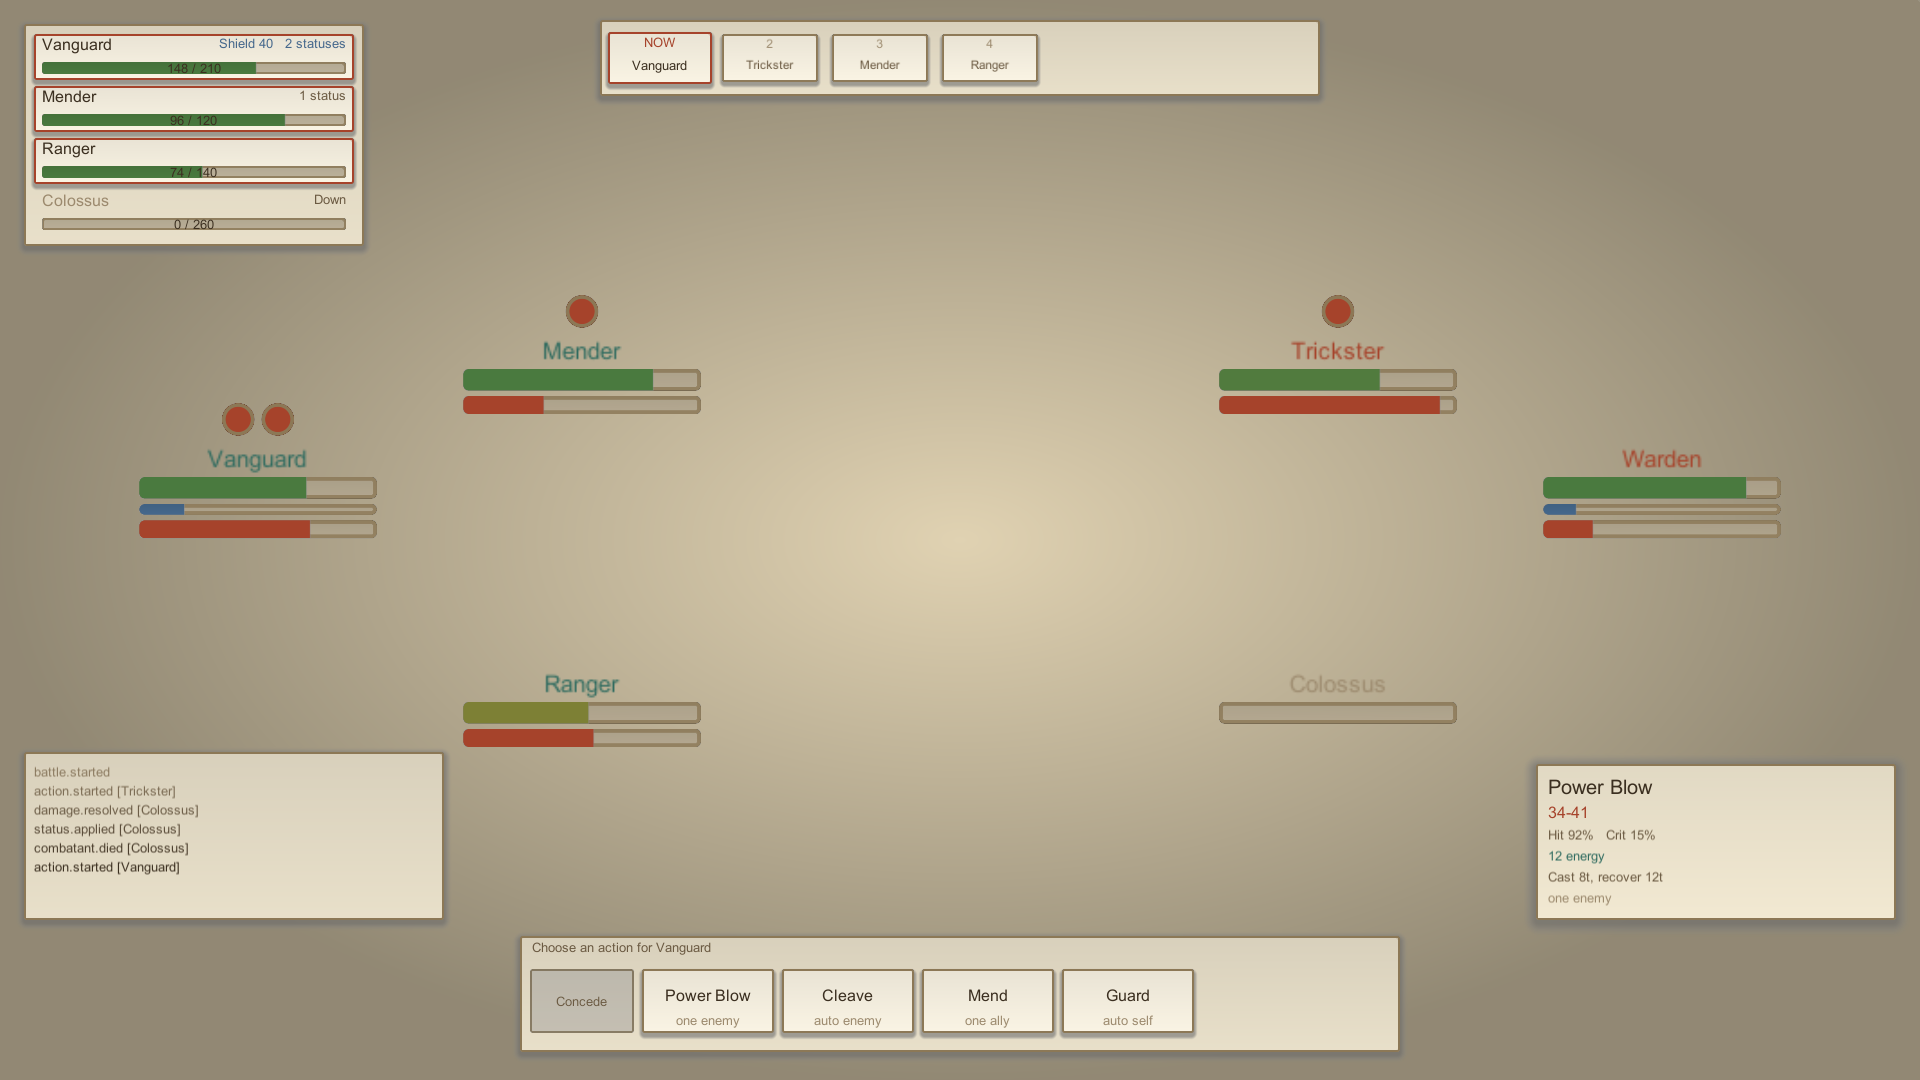
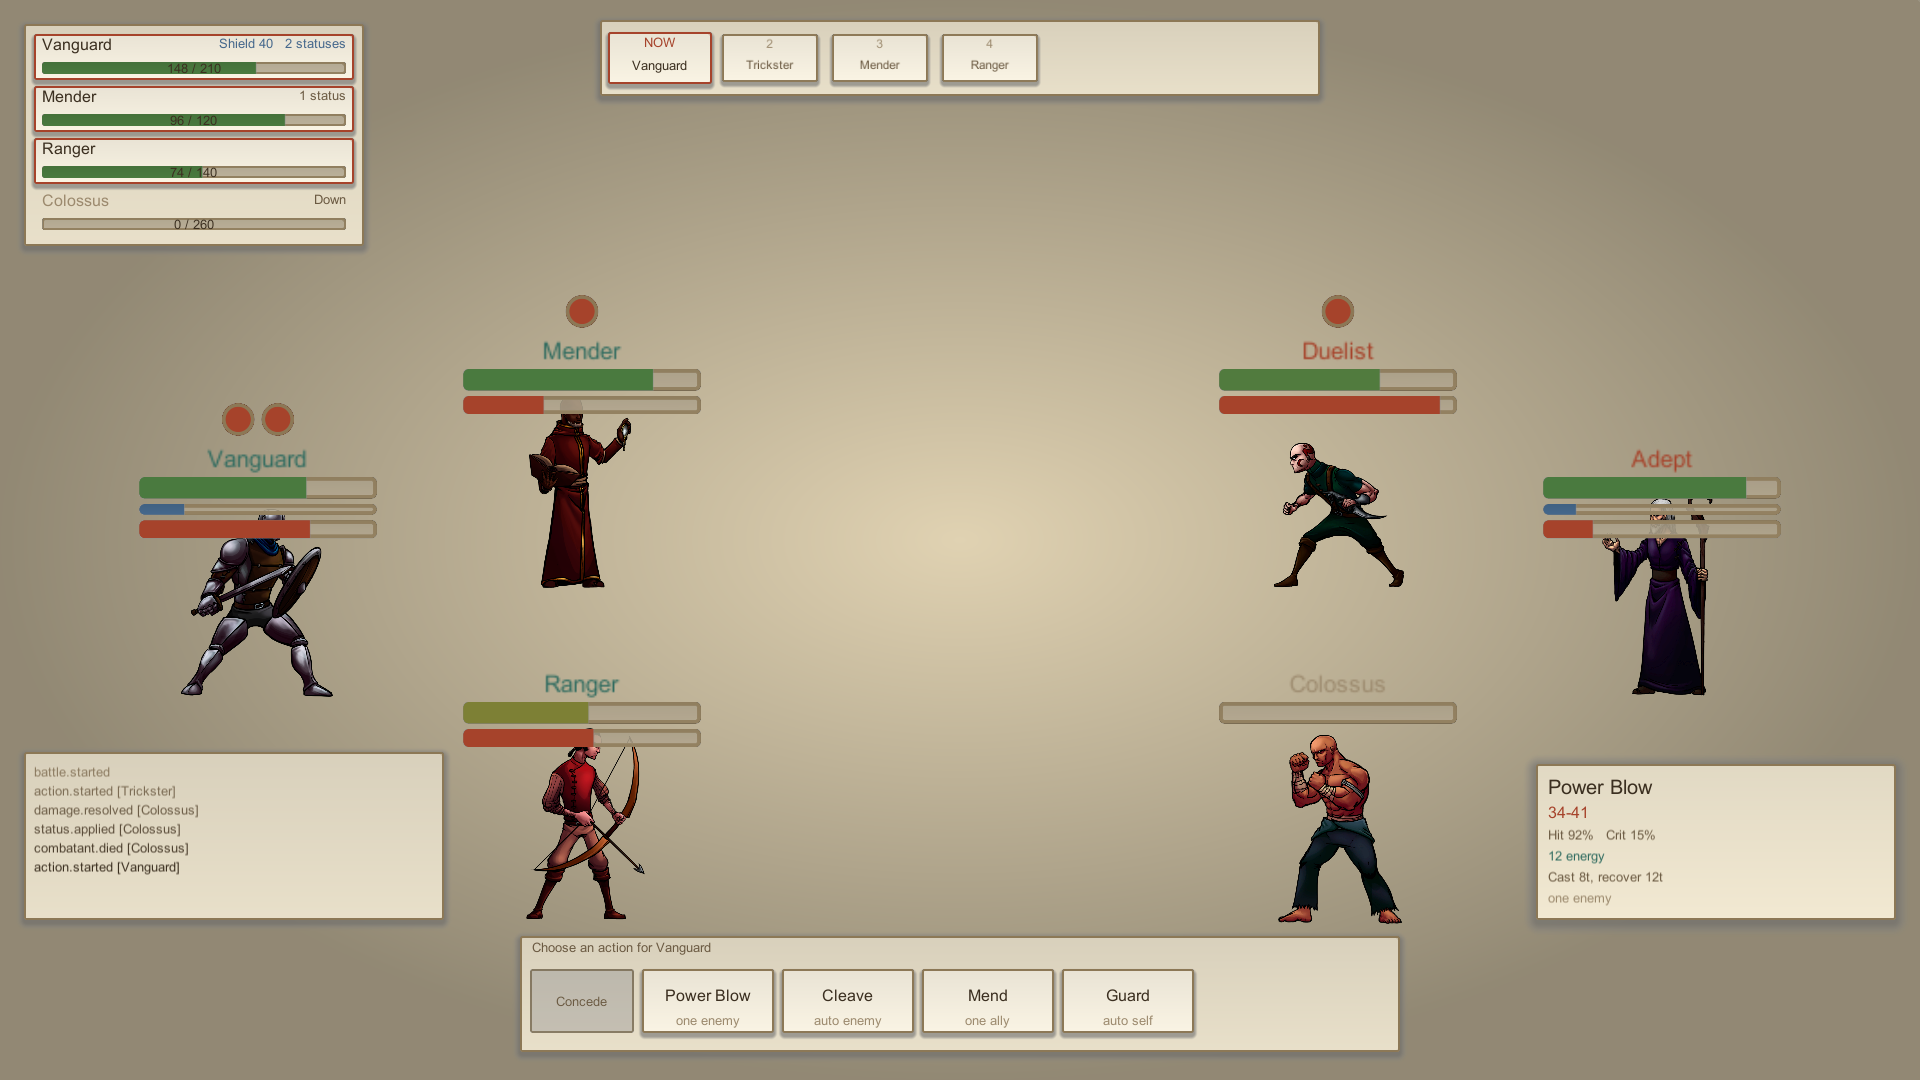
Re-shoot the screenshots with characters, and document the per-combatant key
The hero and skin gallery showed nameplates over empty ground because the package
had no character art wired. Six drawn characters now ship and the captures show
them, on both the dark and parchment skins.

Corrects two claims that are no longer true: the tutorial and the layout how-to
both told buyers the package ships no character art. It ships six, licensed for
use in their own commercial projects, and the two archetypes without a drawing
fall back to a generated role glyph.

Documents BattleStage2D.TokenPoolKeyFor and the optional IPoolPrototypeQuery,
replacing the warning that one prototype had to serve every combatant. The
anchor validation caught the new cross-reference before the reference had been
regenerated, which is the check earning its keep.

Built with --strict; 0 undocumented types across 319 published.

diff --git a/docs/reference/presentation-adapters-and-recipes.md b/docs/reference/presentation-adapters-and-recipes.md
@@ -1,9 +1,9 @@
 # Presentation adapters and recipes
 
-16 types in this area.
+17 types in this area.
 
 !!! abstract "On this page"
-    [BuiltInAnimationAdapter](#builtinanimationadapter) &middot; [BuiltInAudioAdapter](#builtinaudioadapter) &middot; [BuiltInPoolAdapter](#builtinpooladapter) &middot; [BuiltInVfxAdapter](#builtinvfxadapter) &middot; [FloatingNumberStyle](#floatingnumberstyle) &middot; [IAnimationAdapter](#ianimationadapter) &middot; [IAudioAdapter](#iaudioadapter) &middot; [IPoolAdapter](#ipooladapter) &middot; [IVfxAdapter](#ivfxadapter) &middot; [PresentationBeatSpec](#presentationbeatspec) &middot; [PresentationCue](#presentationcue) &middot; [PresentationLog](#presentationlog) &middot; [PresentationRecipeDefinition](#presentationrecipedefinition) &middot; [PresentationRecipeSet](#presentationrecipeset) &middot; [PresentationSelectorKind](#presentationselectorkind) &middot; [PresentationVfxAnchorKind](#presentationvfxanchorkind)
+    [BuiltInAnimationAdapter](#builtinanimationadapter) &middot; [BuiltInAudioAdapter](#builtinaudioadapter) &middot; [BuiltInPoolAdapter](#builtinpooladapter) &middot; [BuiltInVfxAdapter](#builtinvfxadapter) &middot; [FloatingNumberStyle](#floatingnumberstyle) &middot; [IAnimationAdapter](#ianimationadapter) &middot; [IAudioAdapter](#iaudioadapter) &middot; [IPoolAdapter](#ipooladapter) &middot; [IPoolPrototypeQuery](#ipoolprototypequery) &middot; [IVfxAdapter](#ivfxadapter) &middot; [PresentationBeatSpec](#presentationbeatspec) &middot; [PresentationCue](#presentationcue) &middot; [PresentationLog](#presentationlog) &middot; [PresentationRecipeDefinition](#presentationrecipedefinition) &middot; [PresentationRecipeSet](#presentationrecipeset) &middot; [PresentationSelectorKind](#presentationselectorkind) &middot; [PresentationVfxAnchorKind](#presentationvfxanchorkind)
 
 ## BuiltInAnimationAdapter
 
@@ -76,7 +76,7 @@ degrade to a single warning and a no-op.
 ## BuiltInPoolAdapter
 
 ```csharp
-public sealed class BuiltInPoolAdapter : IPoolAdapter
+public sealed class BuiltInPoolAdapter : IPoolAdapter, IPoolPrototypeQuery
 ```
 
 `TempoForge.Presentation` &middot; <small>TempoForge/Runtime/Presentation/Adapters/BuiltInPresentationAdapters.cs</small>
@@ -104,6 +104,10 @@ to a single warning and a null result rather than allocating forever.
 `public int ActiveCount(string key)`
 
 :   Instances handed out for a key and not yet released; zero for a null key or one that has never been acquired.
+
+`public bool HasPrototype(string key)`
+
+:   True when `RegisterPrototype` has bound a prototype to `key` and that prototype is still alive. A destroyed prototype reports false rather than true, so a scene teardown that took the source object with it degrades to the shared fallback instead of cloning a dead reference.
 
 `public int IdleCount(string key)`
 
@@ -233,6 +237,29 @@ cap so the caller degrades visibly rather than allocating without bound.
 The presenter and the stage release everything they acquired on teardown,
 so an implementation must survive repeated acquire/release cycles without
 leaking instances and without destroying them.
+
+---
+
+## IPoolPrototypeQuery
+
+```csharp
+public interface IPoolPrototypeQuery
+```
+
+`TempoForge.Presentation` &middot; <small>TempoForge/Runtime/Presentation/Adapters/PresentationAdapters.cs</small>
+
+An optional capability a pool may add: answering whether it holds a
+prototype for a key, without acquiring one.
+
+It exists because `IPoolAdapter.Acquire` is allowed to
+fabricate an empty instance for an unregistered key, so "acquire and check
+for null" cannot distinguish a registered prototype from a blank
+stand-in. The stage uses this to decide whether a combatant has art of its
+own before it commits to a key.
+
+Implementing it is optional. A pool that does not is treated as holding
+nothing specific, which is exactly the behaviour every project had before
+per-combatant art existed.
 
 ---
 

diff --git a/docs/reference/index.md b/docs/reference/index.md
@@ -1,6 +1,6 @@
 # API reference
 
-The types you are meant to use in TempoForge, grouped by what they are for rather than by namespace. **317 types.**
+The types you are meant to use in TempoForge, grouped by what they are for rather than by namespace. **319 types.**
 
 !!! info "What is not listed here"
     103 further types are public in the source but left out of this reference. They are public only because `internal` is per-assembly in C# and the package spans several assemblies -- plumbing, not API. They carry `[EditorBrowsable(Never)]` in the source to say so. Nothing you need is hidden: if a documented type exposes it, it is documented too.
@@ -332,6 +332,7 @@ The types a new project meets first.
 | [`IAnimationAdapter`](presentation-adapters-and-recipes.md#ianimationadapter) | interface | Presentation adapters and recipes | Plays a keyed animation for a beat phase. |
 | [`IAudioAdapter`](presentation-adapters-and-recipes.md#iaudioadapter) | interface | Presentation adapters and recipes | Plays a keyed one-shot sound. |
 | [`IPoolAdapter`](presentation-adapters-and-recipes.md#ipooladapter) | interface | Presentation adapters and recipes | Keyed instance pool for token views, floating numbers, and pooled VFX. |
+| [`IPoolPrototypeQuery`](presentation-adapters-and-recipes.md#ipoolprototypequery) | interface | Presentation adapters and recipes | An optional capability a pool may add: answering whether it holds a prototype for a key, without acquiring one. |
 | [`IVfxAdapter`](presentation-adapters-and-recipes.md#ivfxadapter) | interface | Presentation adapters and recipes | Plays a keyed one-shot visual effect at the cue position. |
 | [`PresentationBeatSpec`](presentation-adapters-and-recipes.md#presentationbeatspec) | class | Presentation adapters and recipes | One of the three fixed beats (In / Impact / Out) of a recipe. |
 | [`PresentationCue`](presentation-adapters-and-recipes.md#presentationcue) | struct | Presentation adapters and recipes | Immutable spatial context handed to a visual adapter. |
@@ -372,6 +373,7 @@ The types a new project meets first.
 | [`StableId`](numerics-and-determinism.md#stableid) | struct | Numerics and determinism | The identifier every piece of content, state, and event in the simulation is named by: 1 to 128 characters drawn from a-z, 0-9, and the three punctuation characters '.', '_' and '-... |
 | [`BattleSkinBrowserWindow`](editor-tools.md#battleskinbrowserwindow) | class | Editor tools | Browse the shipped skins, preview them with the real shader, and turn any of them into an editable asset in one click. |
 | [`AudioArtBinding`](other.md#audioartbinding) | class | Other | Binds a recipe audio key (an sfx-* clip name) to art. |
+| [`CharacterArtImporter`](other.md#characterartimporter) | class | Other | Applies the shipped import settings to the drawn character sprites under `Samples/Characters`, and is safe to re-run. |
 | [`DisplayStringTableAsset`](other.md#displaystringtableasset) | class | Other | The shipped serialized string-table asset the demo driver supplies to the presenter (specification section 3: display text comes from an explicit table, never from compiled snapsho... |
 | [`Entry`](other.md#entry) | class | Other | One stable-id-to-display-name pair. |
 | [`ForecastRequest`](other.md#forecastrequest) | class | Other | The three caps that bound one `BattleForecast.Run` call: how far ahead it may look, and how much work and evidence it may collect before stopping. |

diff --git a/docs/reference/other.md b/docs/reference/other.md
@@ -1,9 +1,9 @@
 # Other
 
-10 types in this area.
+11 types in this area.
 
 !!! abstract "On this page"
-    [AudioArtBinding](#audioartbinding) &middot; [DisplayStringTableAsset](#displaystringtableasset) &middot; [Entry](#entry) &middot; [ForecastRequest](#forecastrequest) &middot; [ForecastResult](#forecastresult) &middot; [ForecastStopReason](#forecaststopreason) &middot; [ParticleArtBinding](#particleartbinding) &middot; [SessionEndState](#sessionendstate) &middot; [TempoForgeDemoBootstrap](#tempoforgedemobootstrap) &middot; [TokenArtBinding](#tokenartbinding)
+    [AudioArtBinding](#audioartbinding) &middot; [CharacterArtImporter](#characterartimporter) &middot; [DisplayStringTableAsset](#displaystringtableasset) &middot; [Entry](#entry) &middot; [ForecastRequest](#forecastrequest) &middot; [ForecastResult](#forecastresult) &middot; [ForecastStopReason](#forecaststopreason) &middot; [ParticleArtBinding](#particleartbinding) &middot; [SessionEndState](#sessionendstate) &middot; [TempoForgeDemoBootstrap](#tempoforgedemobootstrap) &middot; [TokenArtBinding](#tokenartbinding)
 
 ## AudioArtBinding
 
@@ -14,6 +14,36 @@ public sealed class AudioArtBinding
 `TempoForge.Presentation.Demo` &middot; <small>TempoForge/Samples/RuntimeDemo/TempoForgeDemoBootstrap.cs</small>
 
 Binds a recipe audio key (an sfx-* clip name) to art.
+
+---
+
+## CharacterArtImporter
+
+```csharp
+public static class CharacterArtImporter
+```
+
+`TempoForge.InternalTools.Editor` &middot; <small>TempoForge.InternalTools/Editor/CharacterArtImporter.cs</small>
+
+Applies the shipped import settings to the drawn character sprites under
+`Samples/Characters`, and is safe to re-run.
+
+These are hand-authored, so unlike everything under `Samples/Art` they
+are not produced by the Internal generator and carry no seed. Their import
+settings therefore have to be set deliberately rather than emitted with the
+asset, which is what this does.
+
+Internal tooling: it lives outside the shipped root and is never exported.
+
+**Methods**
+
+`public static void ApplyCharacterImportSettings()`
+
+:   &mdash;
+
+`public static void WireCharacterArt()`
+
+:   Command-line entry point: applies the import settings and then rewrites the demo's serialized art bindings so the characters actually reach the stage. Fails loudly, because a batch run that half-succeeds is worse than one that stops.
 
 ---
 

diff --git a/docs/how-to/use-your-own-art.md b/docs/how-to/use-your-own-art.md
@@ -58,11 +58,30 @@ reads the view in `LateUpdate` — never `OnEnable`, which runs before the stage
 | No `sortingOrder` written | `token.SortingOrder`; `token.SortingLayerKey` is recorded, never applied |
 | No desaturate-and-fade on death | `token.IsDead` |
 
-!!! warning "One prototype serves every combatant"
-    The stage acquires every token under that one key and never asks for art per combatant, so both
-    sides get the same prefab. For per-combatant art, register one prototype carrying all your
-    variants and pick between them from `token.CombatantId`; re-registering mid-battle changes
-    nothing already spawned or idle in the pool.
+### Give one combatant its own prefab
+
+`BattleStage2D.TokenPoolKey` is the shared fallback. To give a combatant a body of its own, register
+under [`BattleStage2D.TokenPoolKeyFor(combatantId)`](../reference/stage-and-tokens.md#battlestage2d)
+instead, which is that key plus the combatant id:
+
+```csharp
+pool.RegisterPrototype(BattleStage2D.TokenPoolKey, genericPrefab);          // everyone else
+pool.RegisterPrototype(BattleStage2D.TokenPoolKeyFor(knightId), knightPrefab);
+```
+
+The stage prefers the specific key when the pool holds a prototype for it and falls back to the
+shared one otherwise, so you can give art to some combatants and not others. Tokens are released
+back to the key they came from, so a rebuild does not hand a combatant someone else's body.
+
+!!! note "Why the stage asks before it acquires"
+    `IPoolAdapter.Acquire` is allowed to fabricate an empty instance for an unregistered key rather
+    than return null, so "try the specific key and check for null" would spawn blank tokens instead
+    of falling back. The stage asks first, through the optional
+    [`IPoolPrototypeQuery`](../reference/presentation-adapters-and-recipes.md#ipoolprototypequery).
+    A custom `IPoolAdapter` that does not implement it keeps the old single-key behaviour exactly.
+
+For a sprite swap rather than a whole prefab, you do not need any of this: resolve the token after
+binding and set the renderer, which is what the shipped demo does.
 
 ## Drive an Animator from the animation adapter
 

diff --git a/docs/reference/coverage.md b/docs/reference/coverage.md
@@ -4,10 +4,10 @@ Generated from source alongside the reference itself, so it cannot quietly drift
 
 | Scope | Documented | Total | Coverage |
 | --- | --- | --- | --- |
-| Public types | 317 | 317 | 100% |
-| Public members | 1682 | 1682 | 100% |
+| Public types | 319 | 319 | 100% |
+| Public members | 1685 | 1686 | 100% |
 
-Measured over the 317 types this reference publishes.
+Measured over the 319 types this reference publishes.
 
 ## What is excluded, and why
 
@@ -31,12 +31,12 @@ Coverage is reported over the published surface for the same reason: documenting
 | [Skinning and appearance](skinning-and-appearance.md) | 17 | 17 | 100% |
 | [Interface and widgets](interface-and-widgets.md) | 21 | 21 | 100% |
 | [Stage and tokens](stage-and-tokens.md) | 10 | 10 | 100% |
-| [Presentation adapters and recipes](presentation-adapters-and-recipes.md) | 16 | 16 | 100% |
+| [Presentation adapters and recipes](presentation-adapters-and-recipes.md) | 17 | 17 | 100% |
 | [Replay](replay.md) | 10 | 10 | 100% |
 | [Analysis and balancing](analysis-and-balancing.md) | 13 | 13 | 100% |
 | [Numerics and determinism](numerics-and-determinism.md) | 7 | 7 | 100% |
 | [Editor tools](editor-tools.md) | 1 | 1 | 100% |
-| [Other](other.md) | 10 | 10 | 100% |
+| [Other](other.md) | 11 | 11 | 100% |
 
 ## How to read this
 

diff --git a/docs/how-to/interface-layout.md b/docs/how-to/interface-layout.md
@@ -104,9 +104,10 @@ event chain or a result. Field list in
 
 ## Assign your own token art
 
-TempoForge draws nameplates, bars and pips over a combatant and ships no character art. Register a
-prototype carrying a `SpriteRenderer` under `BattleStage2D.TokenPoolKey` before you bind, and every
-spawned token is a clone of it. The token view flips that sprite for a slot facing left, writes the
+TempoForge draws nameplates, bars and pips over a combatant. Six drawn characters ship under
+`Samples/Characters/`, licensed for use in your own projects, so the demo reads as a battle from the
+first run and you can keep them if they suit you. Register a prototype carrying a `SpriteRenderer` under
+`BattleStage2D.TokenPoolKey` before you bind, and every spawned token is a clone of it. The token view flips that sprite for a slot facing left, writes the
 slot's sorting order to the renderer, and treats the prototype's colour as the tint a downed
 combatant desaturates away from. For per-combatant art, resolve the token after binding:
 

diff --git a/docs/reference/stage-and-tokens.md b/docs/reference/stage-and-tokens.md
@@ -146,6 +146,11 @@ transform ever feeds back into anything authoritative.
 
 :   Advances token plate animation by a visual delta.
 
+`public static string TokenPoolKeyFor(StableId combatantId)`
+
+:   The pool key that gives one combatant its own body: `presentation.token.`. Register a prototype under this key and that combatant spawns from it; register nothing and it falls back to `TokenPoolKey`, so a project can give art to some combatants and not others. The stage only looks for the specific key when the pool can be asked whether it holds one, because `IPoolAdapter.Acquire` is allowed to fabricate an empty instance for an unknown key rather than returning null, and a fallback built on null would silently spawn blank tokens instead.
+    - `combatantId` &mdash; The combatant whose prototype is wanted.
+
 `public bool TryGetAnchorWorld()`
 
 :   Resolves a beat anchor to stage space for a combatant.

diff --git a/docs/tutorials/first-battle.md b/docs/tutorials/first-battle.md
@@ -20,8 +20,11 @@ Three things you might expect to set up and do not:
   shader that ships inside a `Resources` folder, so it survives build shader stripping.
 - **No font asset.** With no font assigned on the skin, text falls back to Unity's built-in
   `LegacyRuntime.ttf`.
-- **No character art.** The demo draws only what TempoForge itself renders, which is why
-  combatants are plates over empty ground.
+- **Six drawn characters are included, and you may ship them.** They live under
+  `Samples/Characters/`, the demo uses them, and they are licensed with the package for use in your
+  own commercial projects &mdash; not look-but-do-not-touch demo art. The two archetypes without a
+  drawing fall back to a generated role glyph, which is what an unfilled slot looks like. To swap in
+  your own, see [Use your own character art](../how-to/use-your-own-art.md).
 
 ## Run the demo scene
 
